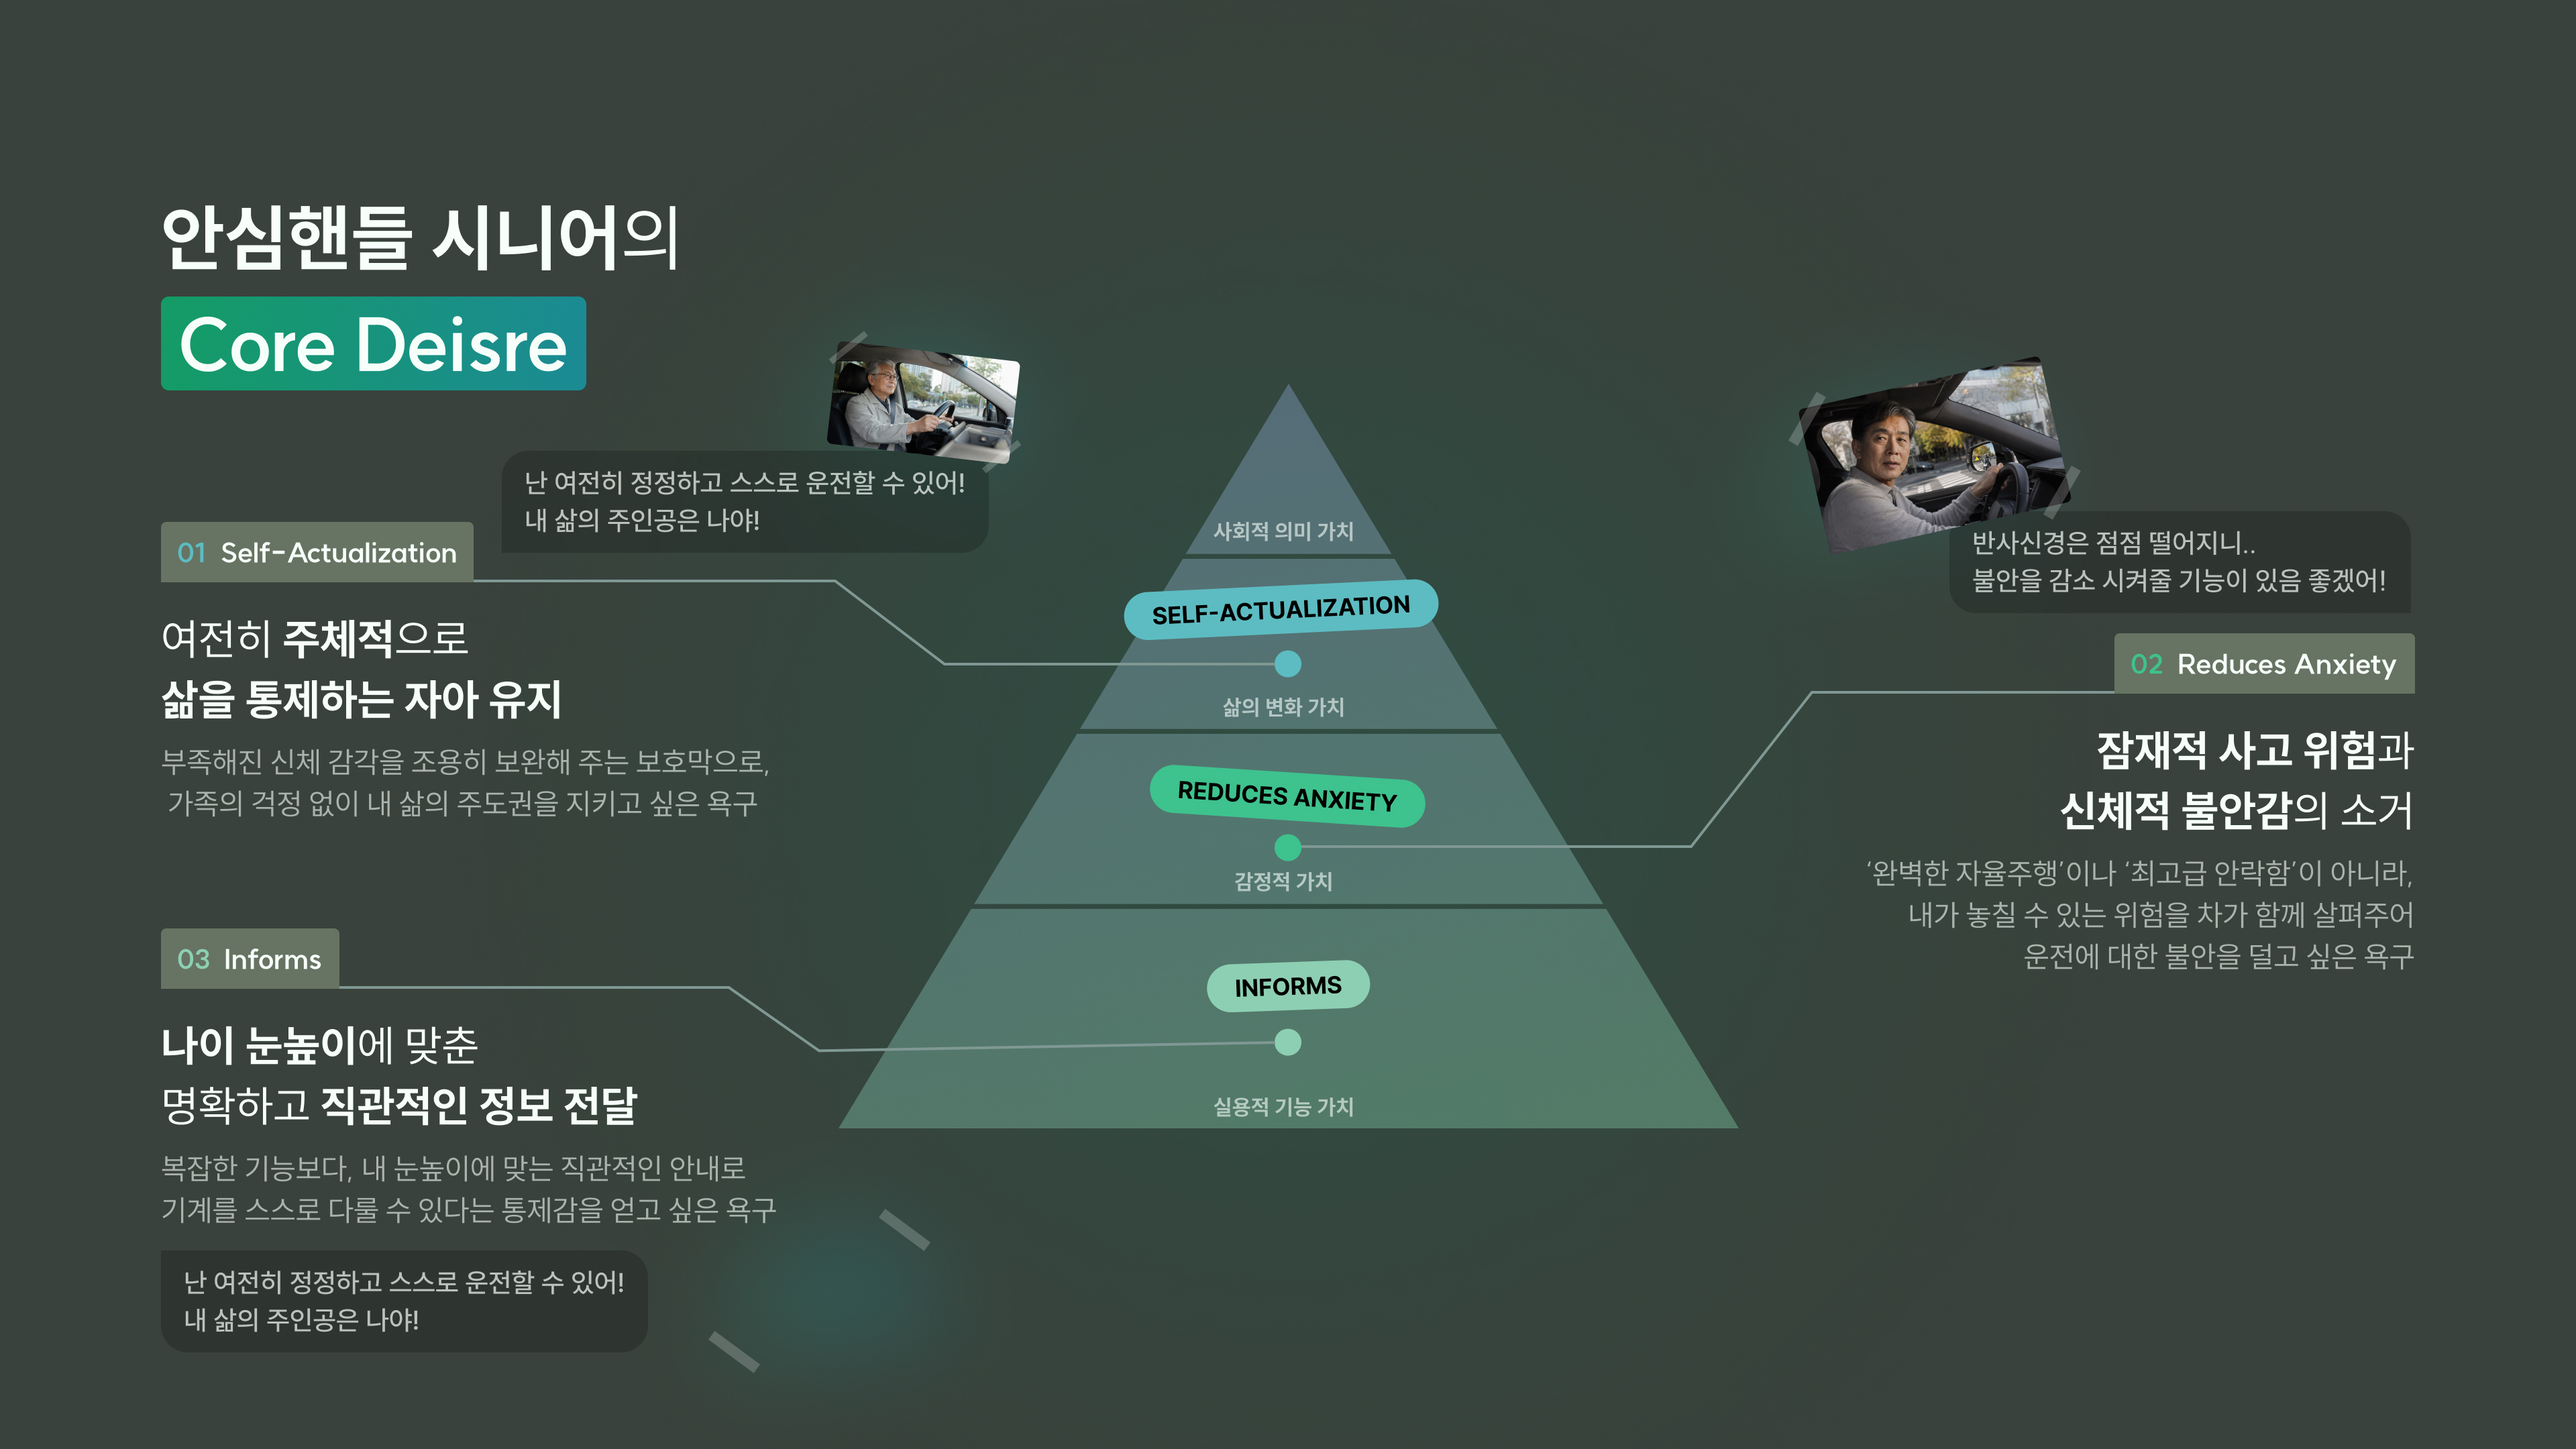
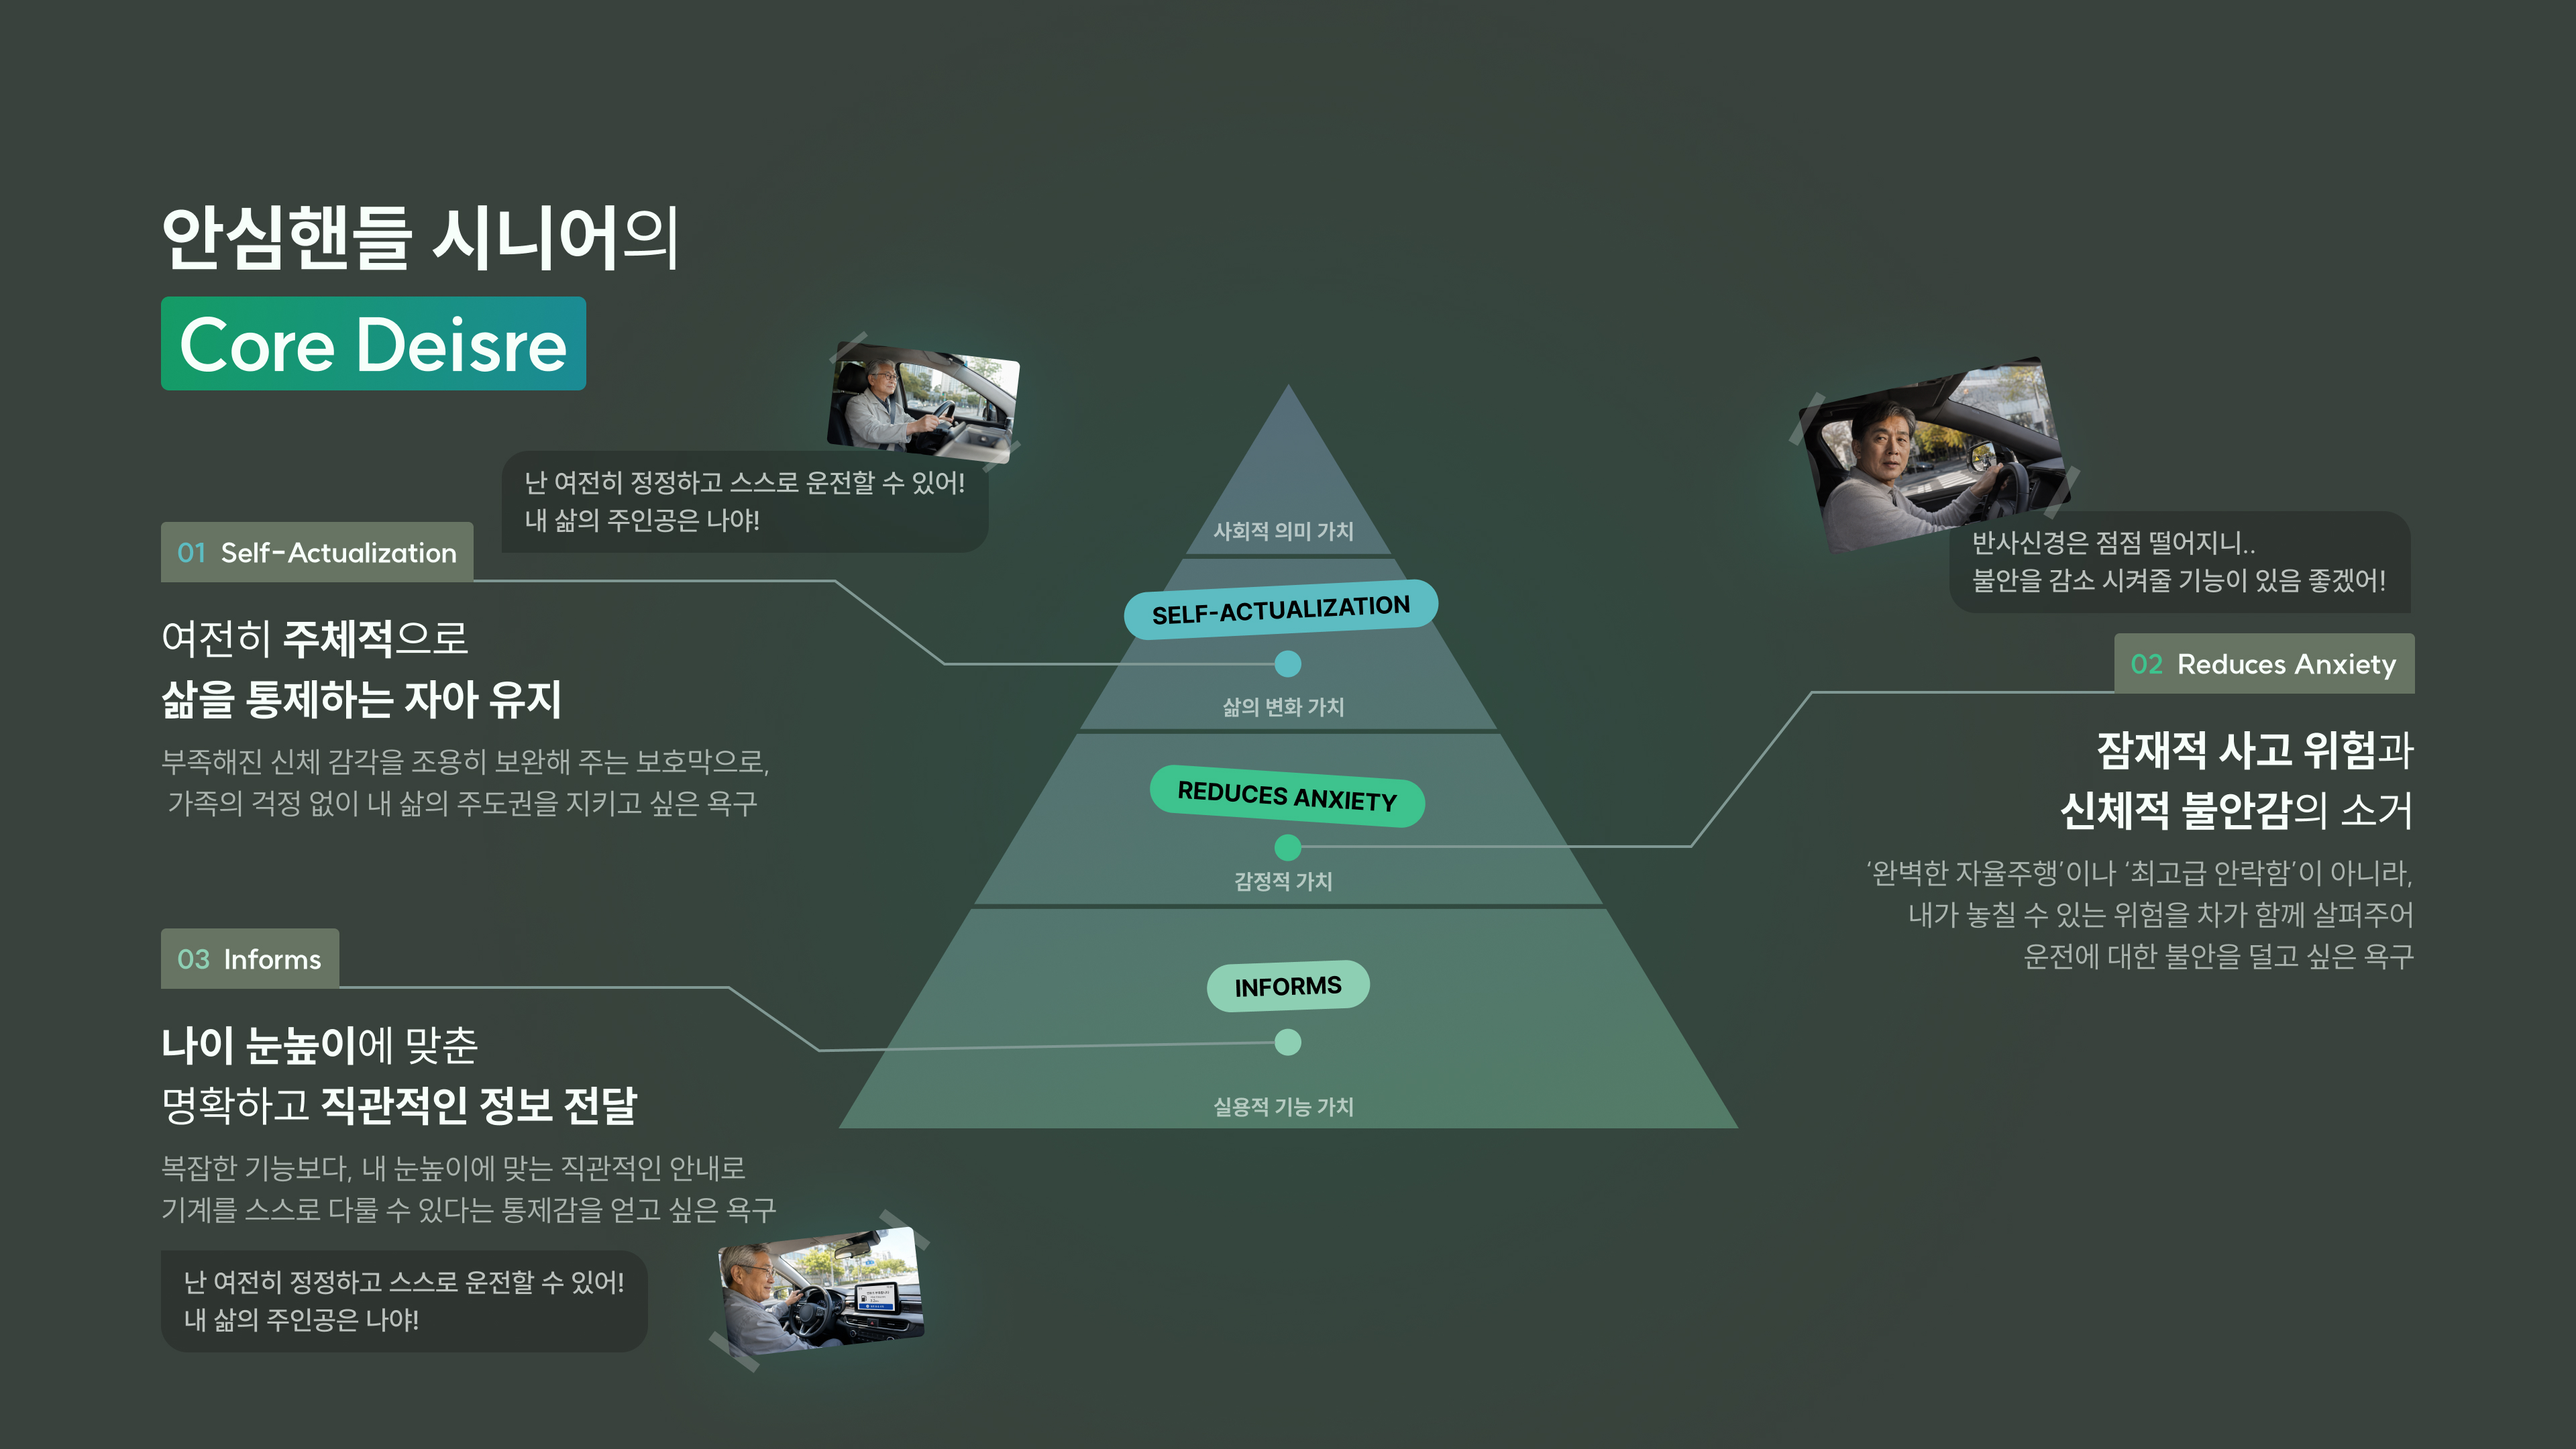
20260806 UI: Update 16px browser title
브라우저 탭 제목과 교체된 시나리오 캔버스 이미지를 함께 반영했습니다.

Changed region(s): [[0.2812, 0.8375, 0.375, 0.9306]]

diff --git a/index.html b/index.html
@@ -3,7 +3,7 @@
 <head>
   <meta charset="UTF-8">
   <meta name="viewport" content="width=device-width, initial-scale=1">
-  <title>고령 운전자의 하루 — Scroll Sequence</title>
+  <title>핸들을 놓기엔, 내 인생은 아직 주행 중</title>
   <meta name="description" content="고령 운전자의 시선으로 바라본 일상과 교통 현실. 스크롤 인터랙션 비디오 테이프 스토리텔링">
   <meta property="og:type" content="website">
   <meta property="og:title" content="고령 운전자의 하루 — Scroll Sequence">
